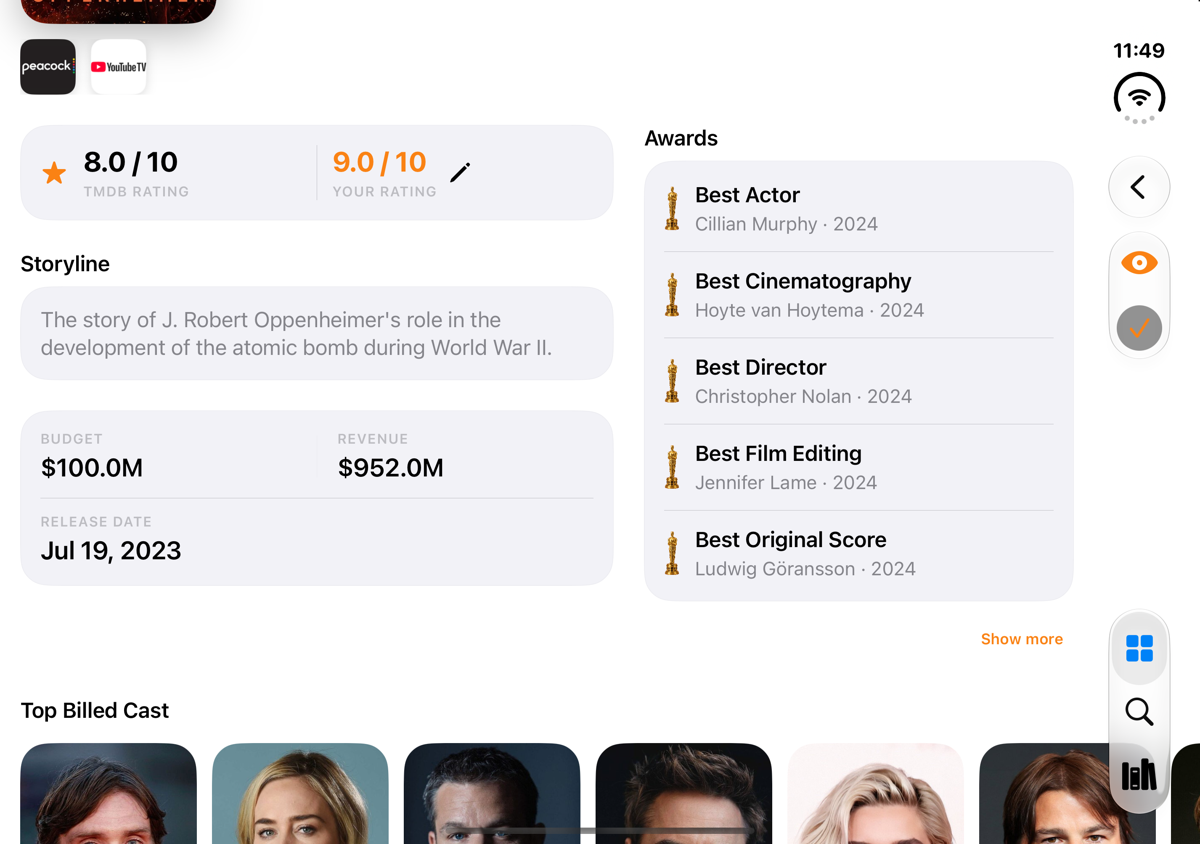
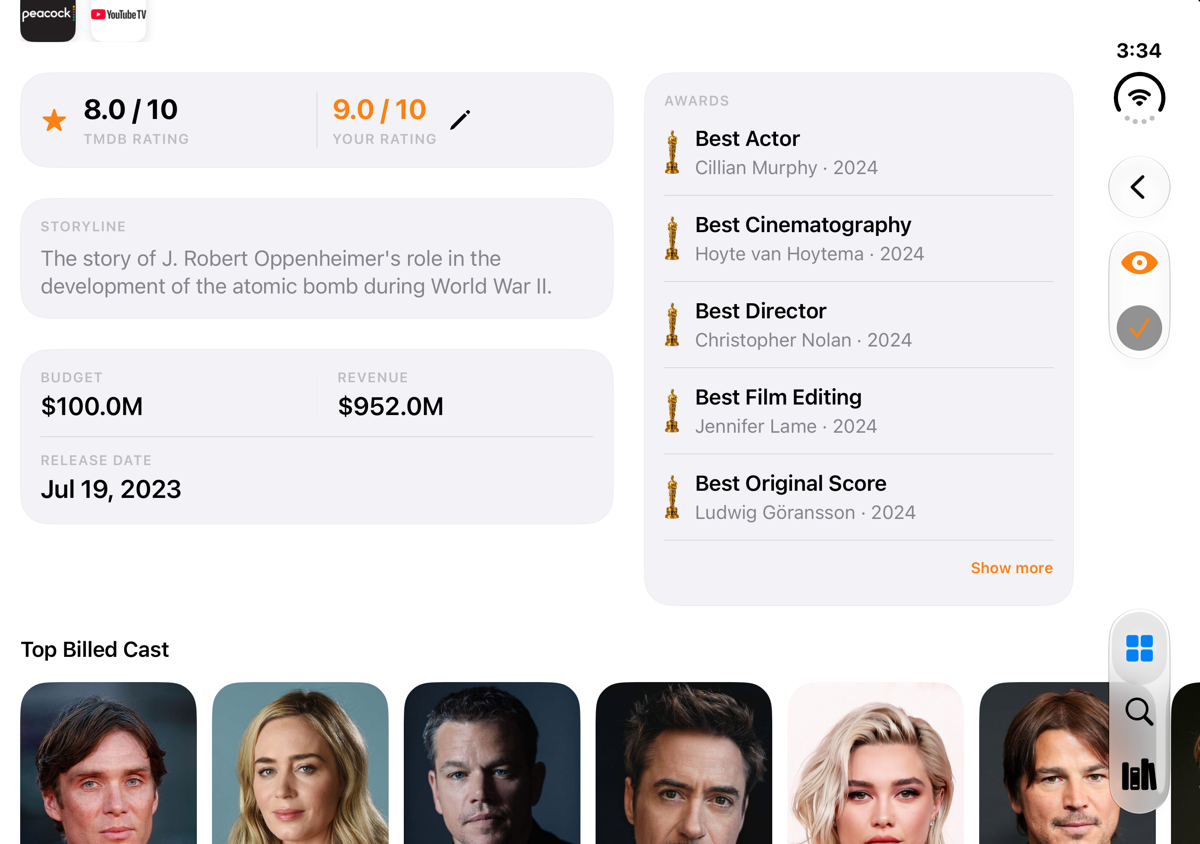
Label the storyline, awards, and biography cards inside the card like the rating and facts cards, instead of with section titles above some cards and not others.

diff --git a/SilverScreen/Design/MediaDescriptionSection.swift b/SilverScreen/Design/MediaDescriptionSection.swift
@@ -3,8 +3,9 @@
 //  SilverScreen
 //
 //  TMDB overview and the viewer's review for one title. A saved note is the page
-//  that shows first. Headers sit outside the surface card; the review body matches
-//  the Reviews card (name, date, text, Show More). The card opens the editor.
+//  that shows first. The card labels itself (see `CardLabel`), with the page switch
+//  on the same row; the review body matches the Reviews card (name, date, text,
+//  Show More). The card opens the editor.
 //
 
 import SwiftUI
@@ -43,14 +44,14 @@ struct MediaDescriptionSection: View {
     }
 
     var body: some View {
-        VStack(alignment: .leading, spacing: DesignSpacing.sm) {
-            header
-            SurfaceCard {
+        SurfaceCard {
+            VStack(alignment: .leading, spacing: DesignSpacing.sm) {
+                header
                 cardBody
             }
-            .id(Self.noteCardID)
-            .animation(.smooth(duration: 0.35), value: page)
         }
+        .id(Self.noteCardID)
+        .animation(.smooth(duration: 0.35), value: page)
         .onAppear(perform: resetPage)
         .onChange(of: note) { _, _ in
             resetPage()
@@ -60,29 +61,22 @@ struct MediaDescriptionSection: View {
     private var header: some View {
         HStack(alignment: .center, spacing: DesignSpacing.sm) {
             if note == nil {
-                sectionTitle("Storyline")
+                CardLabel(title: "Storyline")
                 Spacer(minLength: 0)
             } else if page == .notes {
-                sectionTitle("Your review")
+                CardLabel(title: "Your review")
                 Spacer(minLength: 0)
                 pageSwitch(title: "Storyline", arrow: "arrow.right", arrowFirst: false, label: "Show storyline") {
                     showStoryline()
                 }
             } else {
-                sectionTitle("Storyline")
+                CardLabel(title: "Storyline")
                 Spacer(minLength: 0)
                 pageSwitch(title: "Your review", arrow: "arrow.left", arrowFirst: true, label: "Show your review") {
                     showNotes()
                 }
             }
         }
-    }
-
-    private func sectionTitle(_ title: String) -> some View {
-        Text(title)
-            .font(DesignTypography.section)
-            .foregroundStyle(DesignTheme.textPrimary)
-            .accessibilityAddTraits(.isHeader)
     }
 
     private func pageSwitch(
@@ -104,11 +98,14 @@ struct MediaDescriptionSection: View {
                         .accessibilityHidden(true)
                 }
             }
-            .font(DesignTypography.metadata.weight(.semibold))
+            .font(DesignTypography.chip.weight(.semibold))
             .foregroundStyle(DesignTheme.accent)
             .frame(minHeight: 44)
+            .contentShape(Rectangle())
         }
         .buttonStyle(.plain)
+        // Keeps a 44 pt target without making the label row 44 pt tall.
+        .padding(.vertical, -DesignSpacing.md)
         .accessibilityLabel(label)
     }
 
@@ -165,9 +162,7 @@ struct MediaDescriptionSection: View {
             .fixedSize(horizontal: false, vertical: true)
             .frame(maxWidth: .infinity, alignment: .leading)
             .textSelection(.enabled)
-            .accessibilityLabel(
-                overview.isEmpty ? "Storyline. No description available." : "Storyline. \(overview)"
-            )
+            .accessibilityLabel(overview.isEmpty ? "No description available." : overview)
     }
 
     private func noteAccessibilityLabel(_ note: String) -> String {

diff --git a/SilverScreen/Screens/Shared/AwardRowsSection.swift b/SilverScreen/Screens/Shared/AwardRowsSection.swift
@@ -36,43 +36,45 @@ struct AwardRowsSection: View {
     @Environment(\.dynamicTypeSize) private var dynamicTypeSize
     @ScaledMetric(relativeTo: .body) private var trophyHeight: CGFloat = 36
 
+    /// The card labels itself (see `CardLabel`) and ends with Show more / Show less.
     var body: some View {
-        VStack(alignment: .leading, spacing: DesignSpacing.sm) {
-            Text("Awards")
-                .font(DesignTypography.section)
-                .foregroundStyle(DesignTheme.textPrimary)
-                .accessibilityAddTraits(.isHeader)
-
-            SurfaceCard {
-                VStack(alignment: .leading, spacing: 0) {
-                    ForEach(Array(visibleRows.enumerated()), id: \.element.id) { index, row in
-                        if index > 0 {
-                            Divider()
-                                .padding(.vertical, DesignSpacing.md)
-                        }
-                        awardRow(row)
+        SurfaceCard {
+            VStack(alignment: .leading, spacing: 0) {
+                CardLabel(title: "Awards")
+                    .padding(.bottom, DesignSpacing.md)
+                ForEach(Array(visibleRows.enumerated()), id: \.element.id) { index, row in
+                    if index > 0 {
+                        Divider()
+                            .padding(.vertical, DesignSpacing.md)
                     }
+                    awardRow(row)
                 }
-            }
-
-            if AwardRowsDisplay.showsToggle(total: rows.count) {
-                // The whole row under the card is the button, not just the short label,
-                // so Show more is easy to hit.
-                Button {
-                    isExpanded.toggle()
-                } label: {
-                    Text(AwardRowsDisplay.toggleTitle(isExpanded: isExpanded))
-                        .font(DesignTypography.chip.weight(.semibold))
-                        .foregroundStyle(DesignTheme.accent)
-                        .padding(.horizontal, DesignSpacing.sm)
-                        .frame(maxWidth: .infinity, minHeight: 44, alignment: .trailing)
-                        .contentShape(Rectangle())
+                if AwardRowsDisplay.showsToggle(total: rows.count) {
+                    Divider()
+                        .padding(.top, DesignSpacing.md)
+                    toggleButton
                 }
-                .buttonStyle(.plain)
-                .accessibilityLabel(AwardRowsDisplay.toggleTitle(isExpanded: isExpanded))
-                .accessibilityAddTraits(.isButton)
             }
         }
+    }
+
+    /// The whole last row of the card is the button, not just the short label, so
+    /// Show more is easy to hit.
+    private var toggleButton: some View {
+        Button {
+            isExpanded.toggle()
+        } label: {
+            Text(AwardRowsDisplay.toggleTitle(isExpanded: isExpanded))
+                .font(DesignTypography.chip.weight(.semibold))
+                .foregroundStyle(DesignTheme.accent)
+                .frame(maxWidth: .infinity, minHeight: 44, alignment: .trailing)
+                .contentShape(Rectangle())
+        }
+        .buttonStyle(.plain)
+        .accessibilityLabel(AwardRowsDisplay.toggleTitle(isExpanded: isExpanded))
+        .accessibilityAddTraits(.isButton)
+        // The card's bottom padding already spaces the row; let the target use it.
+        .padding(.bottom, -DesignSpacing.sm)
     }
 
     private var visibleRows: [AwardRow] {

diff --git a/SilverScreen/Screens/People/BiographySection.swift b/SilverScreen/Screens/People/BiographySection.swift
@@ -2,7 +2,8 @@
 //  BiographySection.swift
 //  SilverScreen
 //
-//  Collapsed biography that expands in place via Show More / Show Less.
+//  Collapsed biography that expands in place via Show More / Show Less, in a card
+//  that labels itself like the storyline on title pages.
 //
 
 import SwiftUI
@@ -24,12 +25,16 @@ struct BiographySection: View {
         !biography.isEmpty && biography.count > expandsWhenCharacterCountExceeds
     }
 
+    /// A labeled card, like the storyline on title pages.
     var body: some View {
+        SurfaceCard {
+            content
+        }
+    }
+
+    private var content: some View {
         VStack(alignment: .leading, spacing: DesignSpacing.sm) {
-            Text("Biography")
-                .font(DesignTypography.section)
-                .foregroundStyle(DesignTheme.textPrimary)
-                .accessibilityAddTraits(.isHeader)
+            CardLabel(title: "Biography")
 
             Text(displayText)
                 .font(DesignTypography.body)

diff --git a/SilverScreen/Design/CardLabel.swift b/SilverScreen/Design/CardLabel.swift
@@ -1,0 +1,24 @@
+//
+//  CardLabel.swift
+//  SilverScreen
+//
+//  The label a surface card carries at its top ("STORYLINE", "AWARDS").
+//
+
+import SwiftUI
+
+/// Small-capitals label inside a surface card, in the same style as the field labels
+/// in the rating and facts cards. Cards label themselves this way; section titles
+/// above content are kept for carousels and lists. VoiceOver reads `title` as a header.
+struct CardLabel: View {
+    let title: String
+
+    var body: some View {
+        Text(title.uppercased())
+            .font(DesignTypography.factLabel)
+            .foregroundStyle(DesignTheme.textMuted)
+            .tracking(0.6)
+            .accessibilityLabel(title)
+            .accessibilityAddTraits(.isHeader)
+    }
+}
